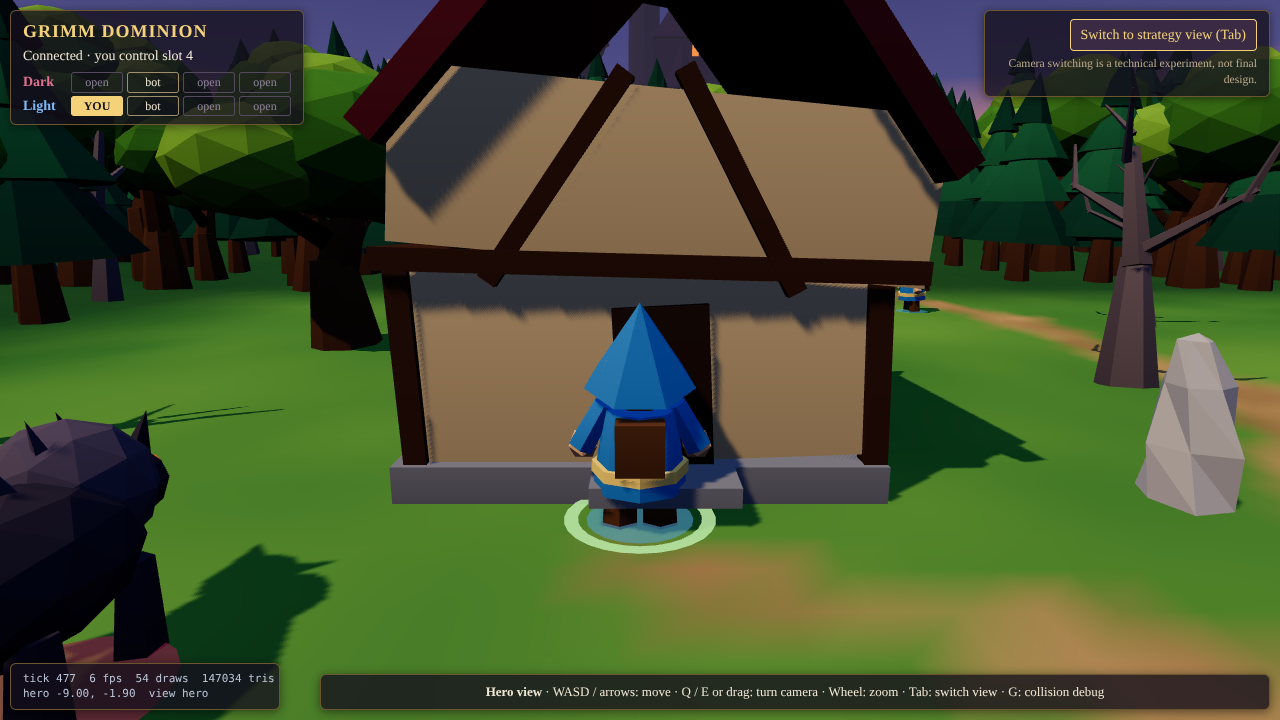
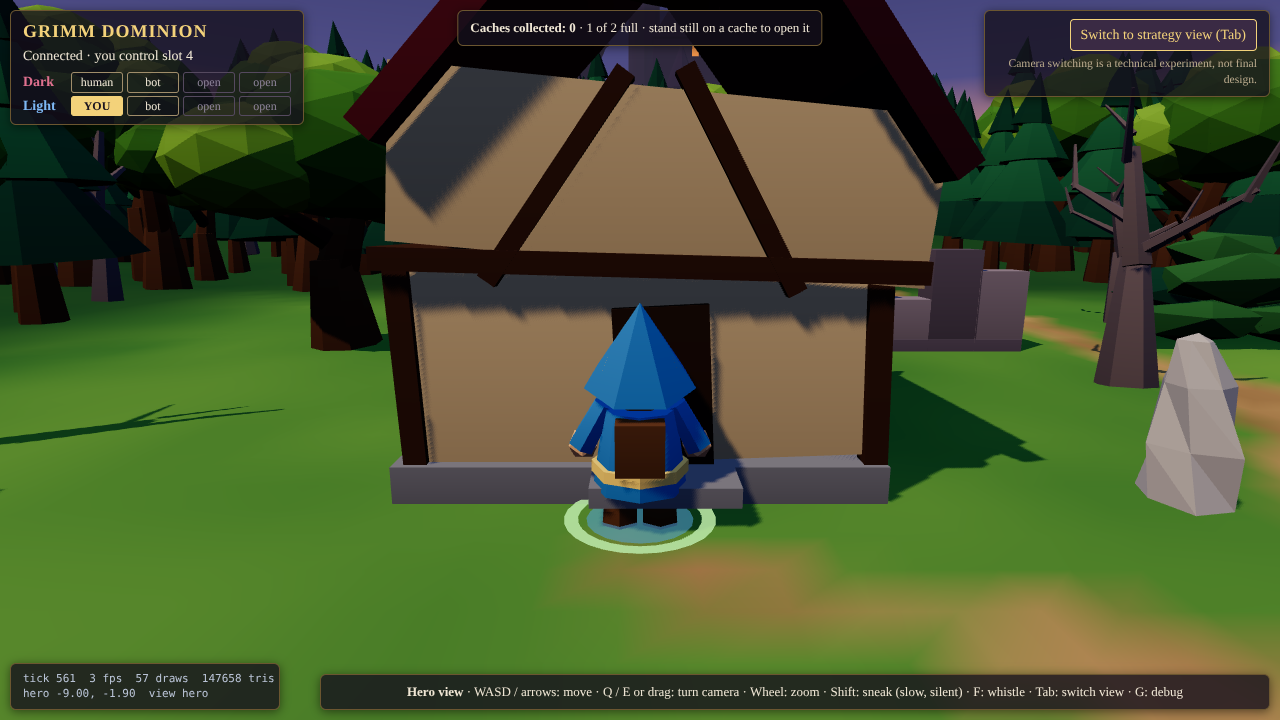
M1: status report, evidence screenshots, one last-seen marker per monster
- docs/implementation-status.md rewritten for M1 with executed results and known defects
- roadmap ledger and README status updated
- docs/evidence/m1-*.png from the 34/36 browser run
- a chase now keeps a single last-seen record per monster
- verify:m1: park the Dark teammate farther away; read growl from the audio counter (not rerun)

Claude-Session: https://claude.ai/code/session_01Q5JvmthDrcWYFfmM7iJKDu

diff --git a/src/shared/sim/monster.ts b/src/shared/sim/monster.ts
@@ -233,6 +233,9 @@ export function thinkMonster(state: SimState, actor: ActorState, map: MapDef): v
       const seen = brain.lastSeen;
       if (brain.lostTicks === 0 && seen) {
         if (brain.chaseId !== null) {
+          // One last-seen point per monster: sight flickering round a corner
+          // must not leave the owner a trail of breadcrumbs.
+          state.evidence = state.evidence.filter((e) => !(e.kind === 'lastSeen' && e.source === actor.id));
           addEvidence(state, { kind: 'lastSeen', x: seen.x, z: seen.z, source: actor.id, ownerSlot: brain.ownerSlot, shared: false, subject: brain.chaseId });
         }
         orderGoto(actor, map, seen.x, seen.z);

diff --git a/docs/implementation-status.md b/docs/implementation-status.md
@@ -1,9 +1,8 @@
 # Implementation status
 
-**Last updated:** 2026-11-11, end of M0 implementation.
-**Branch:** `claude/grimmdomain-milestone-m0-4y6lxu`. Commit SHAs are in the evidence ledger in [production/roadmap.md](production/roadmap.md).
+**Last updated:** 2026-11-11, M1 implementation on `integration/m0-preserve-design-20261111`.
 
-This file reports what the code does and what was actually run. Behaviour described here is **implemented behaviour, not approved design**. Nothing below settles an unresolved rule in [decisions.md](decisions.md).
+This file reports what the code does and what was actually run. Behaviour described here is **implemented behaviour, not approved design**. Choices engineering had to make are listed as P-1 to P-12 in [decisions.md](decisions.md) for creator review. **M1 is not complete until the creator and ChatGPT have played it** ([playtest checklist](playtests/m1-playtest-checklist.md)).
 
 ## Run it
 
@@ -12,130 +11,113 @@ Requires Node.js 22 or newer and a desktop browser with WebGL2.
 ```bash
 npm ci
 ```
-
 ```bash
 npm run dev
 ```
 
-Open http://localhost:5173. The game server runs on port 2567 and the Vite dev server on 5173. A second tab joins the same match; add `?team=dark` to take a Dark slot, `?cam=hero` to start in the hero view, `?debug=1` to start with colliders shown.
+Open http://localhost:5173 (Light hero). `?team=dark` takes a Dark seat: the first Dark seat owns the Scout. `?spectate=1` watches with the public view. `?cam=hero` starts in the hero camera.
 
-Production-style run (one process serves the built client and the game):
-
+Production-style run (one process, http://localhost:2567):
 ```bash
 npm run build
 ```
-
 ```bash
 npm start
 ```
 
-Then open http://localhost:2567.
-
 | Command | What it does |
 | --- | --- |
 | `npm run typecheck` | `tsc --noEmit` over client, server, shared, tests |
-| `npm test` | Vitest: simulation, slots, projection, validation, match host, real-network integration |
-| `npm run build` | Vite client build to `dist/client`, `tsc` server build to `dist/server` |
-| `npm run verify:browser [url]` | Drives a real Chromium against a running game and rewrites `docs/evidence/*.png`. Needs a `playwright` package installed locally or globally. |
-| `npm run assets:placeholder` | Regenerates `public/models/standing_stone.glb` |
+| `npm test` | Vitest: 86 tests in 7 files |
+| `npm run build` | client to `dist/client`, server to `dist/server` |
+| `npm run verify:browser [url]` | M0 regression in real Chromium (16 checks) |
+| `npm run verify:m1 [url]` | M1 hunt scenario in three real Chromium tabs (36 checks). Start the server with `GRIMM_BOTS=none GRIMM_SEED=7` |
 
-### Controls (experimental, not final UX)
-- **Strategy view:** click the ground to order your hero there. WASD or arrows pan, wheel zooms, Space centres on the hero, X stops.
-- **Hero view:** WASD or arrows move relative to the camera. Q/E or mouse drag turn the camera, wheel zooms.
-- **Tab** or the top-right button switches view. **G** shows the simulation's colliders and the patrol route.
+Server switches (environment variables, never client options): `GRIMM_BOTS=none` or `1,5`; `GRIMM_SEED=7`; `GRIMM_MAP=forest_crossing_v1_brute` (adds a Brute); `GRIMM_DEBUG=1` streams every monster's senses to all clients for the `G` overlay and **switches information hiding off**.
 
-## What exists
-- Authoritative 30 Hz simulation: heroes, static collision (circles and axis-aligned boxes), map bounds, one monster patrolling six waypoints with seeded pauses.
-- Eight slots (4 Dark, 4 Light), each empty, human or bot. The dev room starts with one wandering bot per team (slots 1 and 5).
-- Typed, validated commands: `moveDir`, `moveTo`, `stop`.
-- Colyseus 0.18 room: seats a connection in a slot (preferred team if free), sends that connection its own projected snapshot every tick, frees the slot on leave. Connections beyond eight heroes join as spectators with the public view.
-- Three.js client: forest clearing with paths, three tree species (pine, oak, dead), rocks, standing stones (imported GLB), a crooked house, and a distant castle with a road leading to it; light and dark hero placeholders and a patrol beast.
-- Strategy camera and hero camera over the same scene, with a blended switch.
-- HUD: connection state, the eight slots, controls, tick/fps/position readout.
+### Controls (experimental)
+- Strategy view: click to move, WASD pan, wheel zoom, Space centre, X stop. Hero view: WASD move, Q/E or drag turn. Tab switches.
+- **Shift** sneak (slow, silent). **F** whistle. Stand still on a cache for 3 s to open it.
+- Dark owner: **right-click** posts the Scout at that spot, **P** sends it back to its patrol.
+- **G** colliders: magenta blocks sight, grey does not.
+
+## What M1 added
+1. **Navigation.** Grid A* over the map colliders with path straightening, for `moveTo`, bots and monsters.
+2. **Occlusion.** Sight needs range, view arc (monsters) and a clear line against sight-blocking colliders. Half-hidden targets count as partly exposed.
+3. **Perception and evidence.** Attention builds while seen and decays when not. Running, whistling and opening a cache make noise. Evidence records are time-stamped and frozen.
+4. **Scout AI.** Patrol, investigate, chase, search, return. It acts only on what it has perceived.
+5. **Team information (D-012).** Confirmed sightings go to all Dark seats as an alert. The Scout's live vision, destination and state go to its owner only. Hidden actors are not sent at all.
+6. **Feedback (D-014).** Monster "?", "!", "…" signs and posture; growl and howl; a small eye indicator and heartbeat for the hero's own exposure; Dark report panel and ground markers.
+7. **Scene.** Forest crossing: two caches, an exposed direct route, a covered south route with one gap, a north route past the Dark spawn.
+8. Also fixed: a client could choose the room's seed through join options (M0 weakness); the M0 patrol never actually paused at waypoints.
 
 ## Executed checks (2026-11-11, Linux container, Node 22.23.4)
 
-All four were run on a clean copy of the tracked files after `npm ci`.
-
 | Check | Result |
 | --- | --- |
-| `npm ci` | succeeded |
+| M0 baseline before any change: typecheck, 35 tests, build, `verify:browser` | all passed, 16 of 16 |
 | `npm run typecheck` | 0 errors |
-| `npm test` | **35 passed, 0 failed** (3 files, 2.8 s) |
-| `npm run build` | succeeded; client bundle 830 kB (222 kB gzip), server emitted to `dist/server` |
-| `npm start` + `npm run verify:browser http://localhost:2567` | **16 of 16 passed** |
-| `npm run dev` + `npm run verify:browser` | **16 of 16 passed** |
+| `npm test` | **86 passed, 0 failed** |
+| `npm run build` | succeeded |
+| `npm run verify:browser` (M0 regression, new build) | **16 of 16** |
+| `npm run verify:m1` | **34 of 36** on the last full run; see below |
 
-Browser used: Playwright's headless Chromium, WebGL 2.0 through SwiftShader (software rendering, no GPU), 1280x720.
+Browser: headless Chromium, software WebGL (SwiftShader), 2 to 4 fps.
 
-### Acceptance criteria
+**The two `verify:m1` failures, and what was done about them:**
+- "teammate tab never received the hero during the chase": the teammate's own hero was parked about 20 m (its view radius) from the escape route, so it most likely saw the hero with its own eyes. Not proven. The script now parks it farther away. **Not rerun.**
+- "the hidden hero heard the growl": the test's in-page recorder samples snapshots and sounds last one tick. The check now reads the audio counter instead. **Not rerun.**
 
-| M0 criterion | Status | Evidence |
+The claim behind the first one (a teammate never gets the hero through someone else's Scout) is covered independently by `tests/m1-privacy.test.ts` and by the raw-frame test in `tests/server.integration.test.ts`. One small change was made after the last browser run (one last-seen marker per monster instead of several); unit tests were rerun, the browser checks were not.
+
+### Issue #6 acceptance criteria
+
+| Criterion | Status | Evidence |
 | --- | --- | --- |
-| install, dev, build, typecheck, test from clean checkout | met | table above |
-| A desktop browser opens the running 3D client and it is interactive | met in headless Chromium only | browser check: WebGL2 context, 52 draw calls, real mouse and key events change state |
-| Moving the actor changes simulation state and is rendered | met | click moved the hero from (-3.00, 24.00) to (-3.00, 11.61); rendered position matched within 0.05; hero drawn 13 px from the clicked pixel |
-| Actor cannot walk through a visible major obstacle | met | W held 4.2 s into the crooked house: hero stopped at z = -1.900, exactly wall plus hero radius. Unit test sweeps every prop from 16 directions |
-| Monster movement runs on the simulation tick | met | unit test: monster visits waypoints 1,2,3,4,5,0,1 with only `step()` called and no players; frozen when `step()` is not called. Browser: monster moved from (7.80, 1.41) to (7.85, 8.21) |
-| Determinism: same seed + commands = same state; different commands differ | met | `tests/simulation.test.ts`, 600-tick runs compared by hash and deep equality; also different seed differs, and a mid-run copy continues identically |
-| Exactly four Dark and four Light slots, AI-capable | met | `tests/slots-and-projection.test.ts`; bots drive heroes through the command queue |
-| Privacy stub: public projection emits nothing private | met | allow-list key scan over four viewers; seed, PRNG state, patrol brain and other players' orders absent; checked again on the wire in the integration test |
-| Strategy and hero camera both demonstrable | met | browser check: strategy camera y = 41.5, fov 36; hero camera y = 3.5, fov 58; screenshots below |
-| Screenshots and reproducible manual test | met | `docs/evidence/`, steps below |
-| architecture.md and implementation-status.md | met | this file and [architecture.md](architecture.md) |
-| Code committed | met | see ledger |
+| Light Hero can avoid a Scout using cover | met | M1-01 tests; browser: 14 s behind the thicket, attention 0 |
+| Brief sighting raises attention, relaxes in cover | met | M1-02 tests |
+| Sustained visibility: confirmed sighting and team alert, no non-owner live vision | met | M1-03, privacy tests, wire test, browser (owner sent hero, teammate not) |
+| After breaking sight, Scout searches last-seen, never hidden truth | met | M1-04: identical Scout behaviour for three different hidden hero paths |
+| Noise triggers investigation without identifying the emitter | met | M1-05; browser whistle step |
+| Dark commander can redirect a Scout to a resource | met | M1-06; browser right-click step |
+| Payloads and spectator view do not leak hidden positions | met | per-viewer tests, eight-bot property test, raw WebSocket frames of four real clients |
+| Understandable detection feedback without wallhacks | **built, not judged** | browser checks show it appears; whether it reads well needs a human |
+| Determinism, build, typecheck, existing tests, browser checks | met, with the two caveats above | table above |
+| Playtest list, screenshots, known defects committed | met | [checklist](playtests/m1-playtest-checklist.md), `docs/evidence/m1-*.png`, below |
 
-### Screenshots
-Written by `npm run verify:browser`:
-- `docs/evidence/m0-strategy-view.png`
-- `docs/evidence/m0-hero-view.png`
-- `docs/evidence/m0-hero-view-blocked-by-house.png`
-- `docs/evidence/m0-strategy-view-collision-debug.png`
+Spec stories M1-01 to M1-10 are in `tests/m1-stories.test.ts`; M1-09 (two or more real clients) is in `tests/server.integration.test.ts`.
 
-### Manual test (about two minutes)
-1. `npm run dev`, open http://localhost:5173. The top-left panel should say "Connected · you control slot 4" and show YOU in the Light row.
-2. Click the ground north of your hero. A yellow ring marks the order and the hero walks to it.
-3. Watch the dark beast: it walks a loop around the clearing, pausing at each corner.
-4. Press Tab. The camera drops behind the hero and the castle is visible up the road. Hold W to walk.
-5. Walk into the house, a tree and the map edge. The hero slides along them and never passes through.
-6. Press Tab, then G. Magenta outlines are the simulation's real colliders; the yellow loop is the patrol route.
-7. Open a second tab with `?team=dark`. Each tab shows the other's hero moving, and the slot panel shows two humans.
+### Screenshots (written by `verify:m1`)
+`m1-light-hiding-behind-thicket`, `m1-light-being-noticed`, `m1-light-spotted`, `m1-dark-owner-live-vision`, `m1-dark-teammate-alert-only`, `m1-dark-owner-scout-searching`, `m1-dark-owner-noise-report`, `m1-dark-owner-scout-guarding-cache`, `m1-hero-view-being-noticed` (all `.png` in `docs/evidence/`). Only the searching screenshot was looked at by the engineer.
 
 ## Known defects and limitations
 
-**Not verified**
-- **Frame rate on real hardware is unknown.** The only browser available was software-rendered and ran at 3 to 8 fps with about 148,000 triangles and 50 to 80 draw calls. That number says nothing reliable about a desktop GPU. It needs one run on the creator's machine.
-- No human has played this build. Only headless Chromium was used; Firefox, Safari and Edge are untested.
-- Cross-engine determinism is designed for but was only executed on V8.
-- Eight simultaneous clients were not load-tested (out of M0 scope). Two were.
+**Gameplay, most important first**
+- **Escape is fragile.** Scout chase speed is 4.6 against the hero's 6.0. Fleeing at once along a covered route loses it in about 10 s; open ground takes about 13 s, so cover helps only a little. If the hero hesitates a few seconds and the Scout closes to point-blank, the same route did not shake it in two browser runs.
+- **Being caught does nothing.** The Scout stops beside the hero. No combat or capture exists.
+- **A single tree is fiddly cover.** The occluder is the trunk; a hero must be almost exactly behind it.
+- A guard order has no facing: the Scout faces the way it arrived and sweeps about 60 degrees either side.
+- A Dark teammate can infer a hero's rough position by watching an allied Scout run (P-1).
+- Light heroes have no hearing: Dark footsteps are silent to them.
+- Sneak, whistle and caches are engineering proposals (P-7, P-9).
+- Actors still do not collide with each other. No client-side prediction. The hero camera does not avoid obstacles.
 
-**Gameplay-visible**
-- No pathfinding. `moveTo` walks a straight line, slides along obstacles and gives up after 20 ticks without progress. Bots use `moveTo`, so they sometimes stall against a tree until their next decision.
-- Actors do not collide with each other; heroes and the monster pass through one another.
-- No client-side prediction. Your own hero responds after network latency plus the 100 ms interpolation delay. Unnoticeable on localhost, will be felt over the internet.
-- The hero camera does not avoid obstacles. Trees and the house can block the view or clip into it.
-- No fog of war: every actor's position is sent to everyone. This is the M1 hook, not an oversight.
-- In strategy view the hero is not followed automatically; press Space to recentre.
+**Not verified**
+- **No human has played M1.** Whether the cues are readable and the encounter is fun is unknown.
+- **Audio has never been heard.** The checks count cues triggered; headless Chromium plays nothing audible.
+- Frame rate on a real GPU is unknown (software rendering only).
+- The Brute (M1-07) is tested in simulation only; it was never run in a browser.
+- The debug overlay (`GRIMM_DEBUG=1`) was not exercised in a browser.
+- Eight simultaneous real clients were not load-tested. Four were.
+- Cross-engine determinism is designed for but only executed on V8.
 
 **Engineering**
-- Leaving frees the slot at once and removes the hero. No reconnect grace period and no bot takeover (unresolved rule 6).
-- One room type, joined with `joinOrCreate`; a ninth to twelfth connection spectates, a thirteenth is refused by the room cap. No lobby or team picker UI.
-- Full snapshot per client per tick, no delta compression (see architecture.md).
-- Colliders are circles and axis-aligned boxes. The crooked house's leaning upper storey overhangs its box slightly.
-- Only one model is a real imported GLB; everything else is a procedural placeholder. No skeletal animation, textures or audio.
-- The client bundle is a single 830 kB chunk (mostly Three.js).
-- `npm audit` reports 16 low/moderate advisories, all in transitive dependencies of the `colyseus` meta-package (for example `uuid` via `@colyseus/auth`). The offered fix downgrades Colyseus to 0.15, so they are left as is. The meta-package also installs Redis, auth and monitor modules the game does not use; switching to `@colyseus/core` plus `@colyseus/ws-transport` would shrink that surface.
-- The server seed is the wall clock unless a seed option is passed; matches are not yet recorded for replay.
+- Full snapshot per client per tick, no delta compression; projection cost not measured at eight clients.
+- Leaving frees the slot at once; no reconnect or bot takeover (unresolved rule 6).
+- Placeholder art throughout; one imported GLB. Audio is synthesised tones.
+- `npm audit` advisories in transitive Colyseus dependencies, unchanged from M0.
 
-## Proposed M1 sequence
-Engineering order only. Every rule and number comes from the hunting spec ([design/hunting-perception-v0.md](design/hunting-perception-v0.md)) once the creator approves it; none is decided here.
-
-1. **Navigation.** Grid or navmesh pathfinding over the existing colliders, used by `moveTo`, bots and monsters. Pursuit and search cannot work on straight lines.
-2. **Line of sight.** Deterministic segment-versus-collider occlusion in the simulation, with a debug overlay (extends the `G` view). Covers story ST-01.
-3. **Monster state machine.** Patrol, investigate, alert, pursue, search as explicit simulation states with last-known position and timestamps (ST-02 to ST-04, ST-07).
-4. **Noise events** as simulation events with position and loudness (ST-05).
-5. **Real projection.** `canSee` driven by step 2, per-team reports for the Dark side, and wire-level tests that hidden positions never reach the wrong client (ST-06).
-6. **Feedback.** Detection build-up and alert indicators in both camera views.
-7. Each story becomes a scripted, seeded simulation test before its visuals are built.
-
-Design input needed before or during M1: which hero is the first hunted character (the client currently draws a generic Light placeholder), and what a Dark player is told when a monster detects something.
+## Suggested next steps
+1. Creator and ChatGPT run the three scenarios in the playtest checklist and rule on P-1 to P-12, P-8 (chase speed) first.
+2. Rerun `npm run verify:m1` once after the two script fixes.
+3. Decide what being caught means before M2; the hunt has no stakes without it.

diff --git a/docs/production/roadmap.md b/docs/production/roadmap.md
@@ -7,7 +7,7 @@ The target is a full 4v4 asymmetric action/strategy game. Milestones are cumulat
 | Milestone | Deliverable | Dependency / completion gate | Status |
 | --- | --- | --- | --- |
 | **M0** | Running 3D browser scene, actor/camera proof, seeded simulation, typed protocol, minimal server, art import path, 4v4 slots | Fable reported local tests and browser checks; independent CI and human GPU playtest remain | **IN REVIEW (PR #5)** |
-| **M1** | One meaningful hunt-and-escape encounter: patrol, sight, hearing, alert, last-known position, search, concealment | M0 game loop + perception tests + visible debug layers | PLANNED |
+| **M1** | One meaningful hunt-and-escape encounter: patrol, sight, hearing, alert, last-known position, search, concealment | M0 game loop + perception tests + visible debug layers | **IMPLEMENTED, AWAITING PLAYTEST** |
 | **M2** | Two-sided match loop: commander spawns/orders monsters; light hero gains resources/upgrades; castle victory and defeat conditions for short test | M1, explicit design approval for core scoring/revival | PLANNED |
 | **M3** | Character identity: Goblin, Alchemist, Knight, Witch power economies; Dark Hero classes; combat/abilities | M2, individual mechanic specifications | PLANNED |
 | **M4** | Full 4v4 network matches + bots/reconnect/lobby/seat assignment/team information filtering | M0 authority and M1 perception, validated at eight clients | PLANNED |
@@ -39,3 +39,4 @@ Fable reported executing the M0 build and tests on its implementation branch (so
 | Milestone | Running build | Tests passing | User playtested | Evidence |
 | --- | --- | --- | --- | --- |
 | M0 | **Fable reported yes** | **Fable reports 35 unit/integration and 16 browser checks passed** | **No** | [Implementation report](../implementation-status.md), [PR #5](https://github.com/flimmbark-source/GrimmDomainFable/pull/5), GitHub Actions on PR |
+| M1 | **Yes** (headless Chromium, software rendering) | **86 unit/integration tests; M0 browser 16/16; M1 browser 34/36 on last full run, two script issues fixed and not rerun** | **No** | [Implementation report](../implementation-status.md), [playtest checklist](../playtests/m1-playtest-checklist.md), `docs/evidence/m1-*.png` |

diff --git a/README.md b/README.md
@@ -1,6 +1,6 @@
 # Grimm Dominion
 
-**Status:** M0 game source integrated for review in draft PR #5. Claude reports a running 3D browser build and passing automated tests, but independent CI and human playtesting are separate acceptance gates. This repository is the canonical workspace for developing Grimm Dominion as a complete, original game, using Fable/Claude Code for implementation and ChatGPT plus the creator for gameplay direction, review, and production specifications.
+**Status:** M1 (hunt, cover, Scout perception, private information) is implemented on the integration branch and awaits creator playtest; see [implementation status](docs/implementation-status.md). M0 game source integrated for review in draft PR #5. Claude reports a running 3D browser build and passing automated tests, but independent CI and human playtesting are separate acceptance gates. This repository is the canonical workspace for developing Grimm Dominion as a complete, original game, using Fable/Claude Code for implementation and ChatGPT plus the creator for gameplay direction, review, and production specifications.
 
 ## Vision currently established
 - Asymmetric dark-fairytale strategy/action game built around hunting, hiding, growing stronger, and a castle assault.
